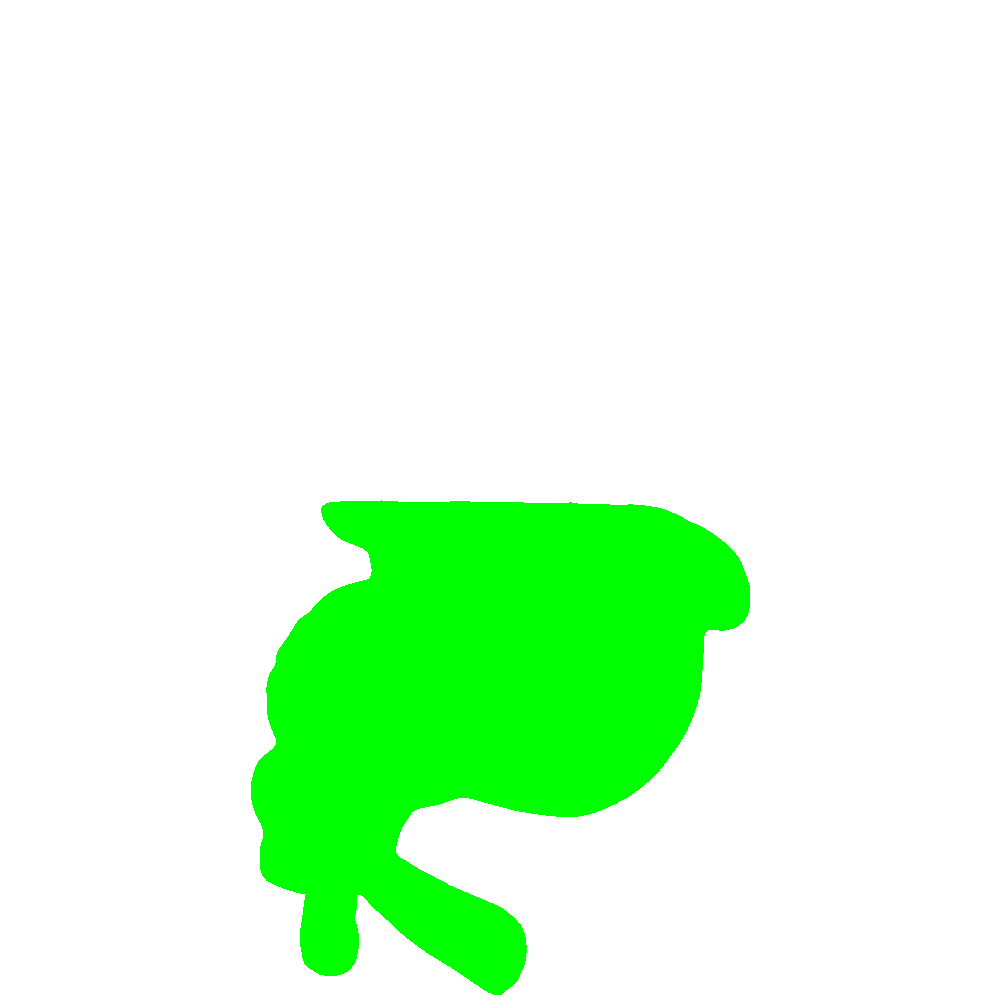
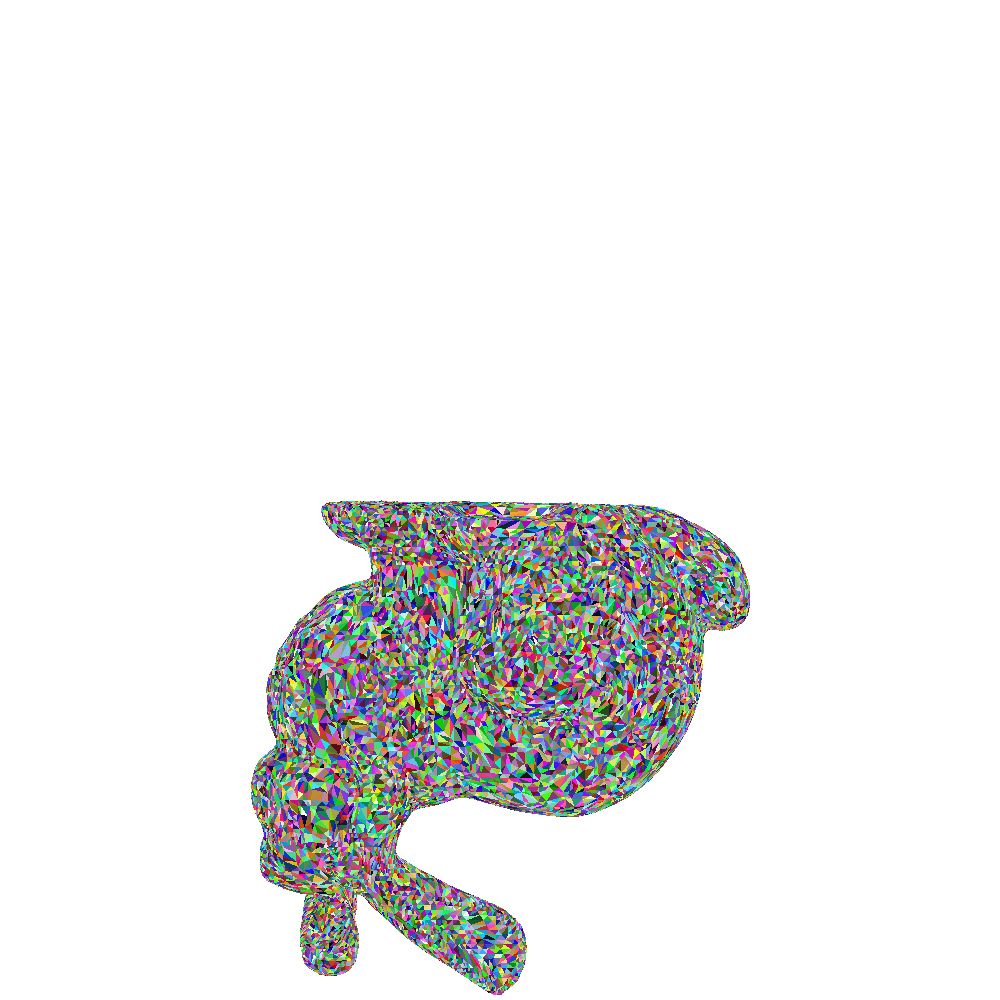
Add files via upload

Changed region(s): [[0.248, 0.496, 0.775, 0.992]]

diff --git a/Laba_2/Task 11.py b/Laba_2/Task 11.py
@@ -1,0 +1,86 @@
+from PIL import Image
+import random
+import numpy as np
+
+def parsic(file_path):
+
+    arr_vertex = []
+    arr_f = []
+    with open(file_path, 'r') as objFile:
+        for line in objFile:
+            parts = line.strip().split()
+            if not parts:  # Пропускаем пустые строки
+                continue
+            type = parts[0]
+            if type == "v":
+                x, y, z = map(float, parts[1:4])
+                arr_vertex.append((x, y, z))
+            elif type == "f":
+                if len(parts) > 1:
+                    arr_f.append(([int(part.split('/')[0]) for part in parts[1:]])) #int
+
+    return arr_vertex, arr_f
+
+def barycentric_coordinates(x0, y0, x1, y1, x2, y2, x, y):
+
+    lambda_0 = ((x - x2)* (y1-y2) - (x1 - x2)*(y - y2))/((x0 - x2)*(y1-y2) - (x1 - x2)*(y0 - y2))
+    lambda_1 = ((x0 - x2)*(y - y2) - (x - x2)*(y0 - y2))/((x0 - x2)*(y1-y2) - (x1 - x2)*(y0 - y2))
+    lambda_2 = 1.0 - lambda_0 - lambda_1
+    return lambda_0, lambda_1, lambda_2
+
+def normal(x0, y0, x1, y1, x2, y2, z0, z1, z2): #подсчитываем нормаль
+    arr_normal = []
+    A = np.array([x1 - x2, y1 - y2, z1 - z2 ])
+    #заводим вектор A(X1 - X2)
+    B = np.array([x1 - x0, y1 - y0, z1 - z0 ])
+    # заводим вектор A(X1 - X0)
+    norma = np.cross(A, B)
+    return norma
+
+
+def draw_triangle(x0, y0, x1, y1, x2, y2, image):
+    #color = (random.randint(0,255),random.randint(0, 255), random.randint(0,255))
+    color = (0, 255, 0)
+    pixel = image.load()
+    x_min = max(0, int(min(x0, x1, x2)))
+    x_max = min(image.width-1 , int(max(x0, x1, x2)))
+    y_min = max(0, int(min(y0, y1, y2)))
+    y_max = min(image.height -1, int(max(y0, y1, y2)))
+    for x in range(x_min, x_max+1):
+        for y in range(y_min, y_max+1):
+            l_0, l_1, l_2 = barycentric_coordinates(x0, y0, x1, y1, x2, y2, x, y)
+            if l_0>=0 and l_1 >= 0 and l_2 >= 0:
+                pixel[x, y] = color
+
+    return image
+
+
+def main():
+    file_path = r'model_1.obj'
+    arr_vertex, arr_f = parsic(file_path)
+
+    image_size = (1000, 1000)
+    image = Image.new("RGB", image_size, "white") # Создаем черное изображение (0 - черный, 255 - белый)
+
+    # Получим точки для соединения
+    for face in arr_f:
+        x0 = 500 + 5000 * arr_vertex[face[0] - 1][0]
+        x1 = 500 + 5000 * arr_vertex[face[1] - 1][0]
+        x2 = 500 + 5000 * arr_vertex[face[2] - 1][0]
+        y0 = 500 + 5000 * arr_vertex[face[0] - 1][1]
+        y1 = 500 + 5000 * arr_vertex[face[1] - 1][1]
+        y2 = 500 + 5000 * arr_vertex[face[2] - 1][1]
+        z0 = 500 + 5000 * arr_vertex[face[0] - 1][2]
+        z1 = 500 + 5000 * arr_vertex[face[1] - 1][2]
+        z2 = 500 + 5000 * arr_vertex[face[2] - 1][2]
+        # считаем нормаль
+        norma = normal(x0, y0, x1, y1, x2, y2, z0, z1, z2)
+        print("Норма вектора: ", norma)
+        # Рисуем треугольник
+        draw_triangle(x0, y0, x1, y1, x2, y2, image)
+    image.save('Cto-to-c-chem-to.png')
+    image.show()
+    return image
+
+if __name__ == "__main__":
+    main()
